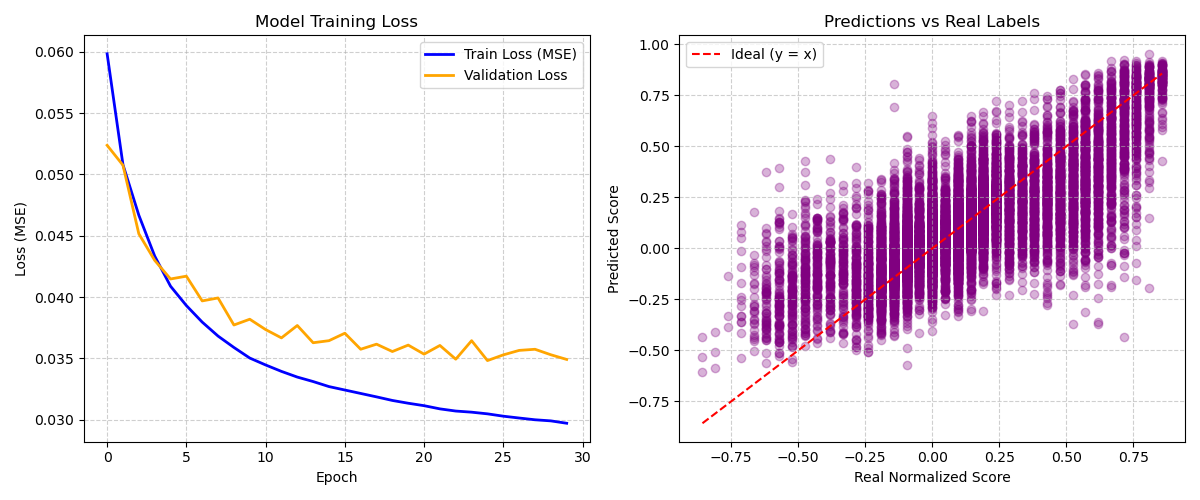
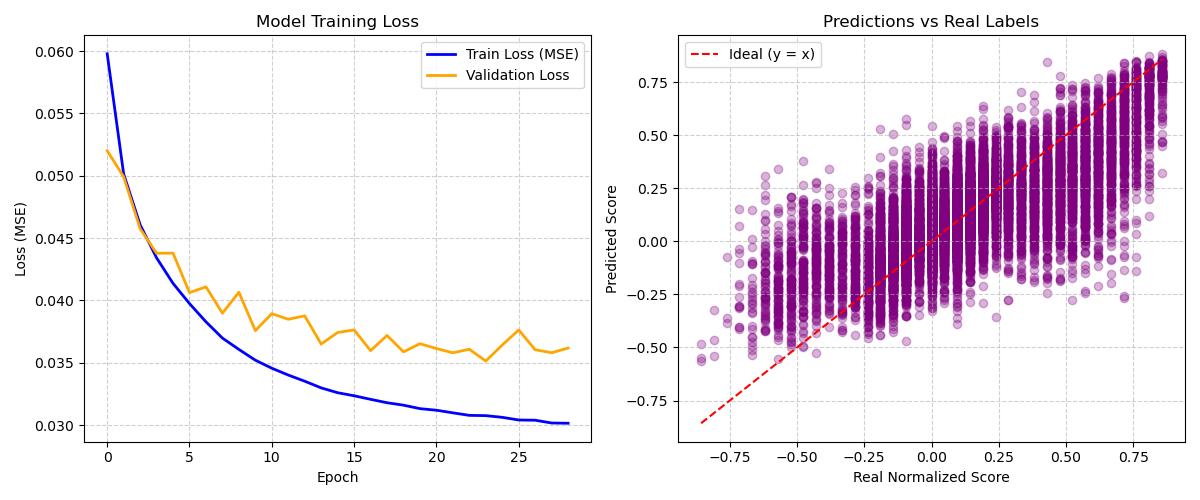
Añado capas de CNN para mejorar la precision

diff --git a/connect_four/model.py b/connect_four/model.py
@@ -96,12 +96,21 @@ if __name__=="__main__":
     x_train, x_test, y_train, y_test = train_test_split(x, y, test_size=TEST, random_state=42)
     
     # Crear modelo
-    model = tf.keras.models.Sequential()
-    model.add(tf.keras.Input(shape=(WIDTH*HEIGHT,)))
-    for l in LAYERS:
-        model.add(tf.keras.layers.Dense(l, activation="tanh"))
-    model.add(tf.keras.layers.Dense(1, activation="linear"))
+    model = tf.keras.models.Sequential([
+        tf.keras.Input(shape=(HEIGHT, WIDTH, 1)),
+        tf.keras.layers.Conv2D(32, (4,4), activation="relu", padding="same"),
+        tf.keras.layers.Conv2D(64, (3,3), activation="relu", padding="same"),
+        tf.keras.layers.Flatten(),
+        tf.keras.layers.Dense(64, activation="relu"),
+        tf.keras.layers.Dropout(0.2),
+        tf.keras.layers.Dense(32, activation="relu"),
+        tf.keras.layers.Dropout(0.2),
+        tf.keras.layers.Dense(1, activation="linear"),
+    ])
 
+    x_train_cnn = x_train.reshape(-1, HEIGHT, WIDTH, 1)
+    x_test_cnn = x_test.reshape(-1, HEIGHT, WIDTH, 1)
+    
     callback = tf.keras.callbacks.EarlyStopping(
         monitor="val_loss",
         patience=5,
@@ -113,16 +122,16 @@ if __name__=="__main__":
 
     ## Entrenar modelo 
     print("\n--- Training Model ---")
-    history = model.fit(x_train, y_train, batch_size=BATCH, epochs=EPOCHS, validation_split=VALIDATION, callbacks=[callback])
+    history = model.fit(x_train_cnn, y_train, batch_size=BATCH, epochs=EPOCHS, validation_split=VALIDATION, callbacks=[callback])
 
     ## Evaluar modelo
     print("\n--- Evaluating Model ---")
-    eval_results = model.evaluate(x_test, y_test, verbose=0)
+    eval_results = model.evaluate(x_test_cnn, y_test, verbose=0)
     print(f"Test Loss (MSE): {eval_results[0]:.4f}")
     print(f"Test MAE: {eval_results[1]:.4f}")
     
     # 1. Predicciones y correlación
-    preds_test = model.predict(x_test).flatten()
+    preds_test = model.predict(x_test_cnn).flatten()
     std_preds = preds_test.std()
     std_real = y_test.std()
     corr = np.corrcoef(preds_test, y_test)[0,1]
@@ -150,7 +159,7 @@ if __name__=="__main__":
         row_str = " ".join(["X" if cell == 1 else "O" if cell == -1 else "." for cell in row])
         print(f"  {row_str}")
         
-    dato2 = tablero_test.flatten().reshape((1, WIDTH*HEIGHT))
+    dato2 = tablero_test.reshape((1, HEIGHT, WIDTH, 1))
     pred_custom = model.predict(dato2)[0][0]
     print(f"Model prediction for custom position: {pred_custom:.4f} (real result should favor X/Player 1)")
 
